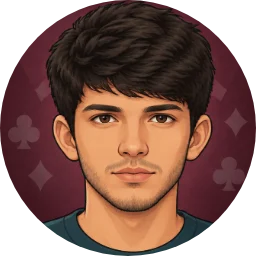
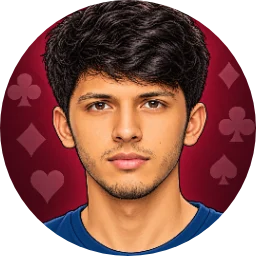
Escaleras de mayor a menor en pantalla (A K Q … 3) y avatares nuevos: 1 y 2 reemplazados, 9 y 10 agregados
- La mesa muestra los consecutivos de A a 3; soltar a la izquierda engancha por arriba. 789 ordena igual.
- Avatares de avatares4/5 (1 y 2) y avatares3 (9 y 10): sin aro dorado y con fondo vino tinto. AVATAR_COUNT = 10;
  el selector va en 2 filas de 5.
- Prueba de la sala con 1 bot: el bot puede plantarse de entrada (las reglas nuevas lo hacen más fácil).

diff --git a/client/src/table.js b/client/src/table.js
@@ -320,8 +320,9 @@ function dropOnMeld(card, target, x) {
     const onTwo = isWild(meldCardsOf(entry.meld)[target.idx] ?? {});
     if (!amPlanted() && onTwo && stealTwo(entry.meld, target.idx, card))
       return toast("Los 2 se roban al EMPEZAR tu turno, antes de tomar el descarte o hacer push. Inténtalo en tu próximo turno");
-    const r = target.meldEl.getBoundingClientRect();     // lado izquierdo del plante → inicio; derecho → final
-    stageHooks(entry, [card], x < r.left + r.width / 2 ? "low" : "high");
+    // Los consecutivos se ven de mayor a menor (A K Q … 3): lado izquierdo → el extremo alto; derecho → el bajo.
+    const r = target.meldEl.getBoundingClientRect();
+    stageHooks(entry, [card], x < r.left + r.width / 2 ? "high" : "low");
   } else if (cur.canTake) {
     if (amPlanted()) return toast("Primero toma una carta (el descarte o push). Después podrás enganchar");
     stealWith(entry, target.idx, card);
@@ -566,12 +567,14 @@ export function renderTable(app, { view, room, rerender }) {
   const stagedMelds = ui.stage.groups.map((g, gi) =>
     h("div", { class: "meld staged-meld tappable", "data-stage": gi, title: "Sin confirmar: toca para devolverlo a tu mano", onclick: () => onStagedClick(gi) },
       g.cards.map((c, i) => cardEl(c, "staged-card " + (isWild(c) ? "wild" : ""), i))));
+  // Los consecutivos se muestran de mayor a menor (A K Q … 3); data-idx sigue siendo la posición en m.meld (robo de 2).
   const tableMelds = shownMelds.map((m) => {
-    const cards = m.meld.kind === "set" ? m.meld.cards : m.meld.slots.map((s) => s.card);
+    const cards = meldCardsOf(m.meld);
+    const order = m.meld.kind === "run" ? cards.map((_, i) => cards.length - 1 - i) : cards.map((_, i) => i);
     const original = view.melds.find((x) => x.id === m.id);
     return h("div", { class: "meld" + (canMeldAct ? " tappable" : ""), "data-meld": m.id, onclick: (e) => onMeldClick(e, original) },
-      cards.map((c, i) => cardEl(c, (stagedHookIds.has(c.id) ? "staged-card " : liveHookIds.has(c.id) ? `live-card ${ui.prevLive.has(c.id) ? "" : "live-new "}` : recent.has(c.id) ? "recent " : "") +
-        (isWild(c) ? "wild " : ""), i)));
+      order.map((i) => { const c = cards[i]; return cardEl(c, (stagedHookIds.has(c.id) ? "staged-card " : liveHookIds.has(c.id) ? `live-card ${ui.prevLive.has(c.id) ? "" : "live-new "}` : recent.has(c.id) ? "recent " : "") +
+        (isWild(c) ? "wild " : ""), i); }));
   });
   for (const [id, c] of ui.clearing) {
     const ph = h("div", { class: "meld clearing", "data-clearing": id }, c.cards.map((card) => cardEl(card, "ph-hidden")));
@@ -785,7 +788,7 @@ function goalInline(view, mePlayer) {
       samples = g.size === 3 ? [mini("7", "♠"), mini("7", "♥"), mini("7", "♦")] : [mini("7", "♠"), mini("7", "♥"), mini("7", "♦"), mini("7", "♣")];
       label = g.size === 3 ? (g.count > 1 ? "tríos" : "trío") : g.count > 1 ? "cuartetos" : "cuarteto";
     } else {
-      samples = [mini("4", "♣"), mini("5", "♣"), mini("6", "♣"), h("span", { class: "mini-dots" }, "…")];
+      samples = [mini("6", "♣"), mini("5", "♣"), mini("4", "♣"), h("span", { class: "mini-dots" }, "…")];
       label = `consecutivo${g.count > 1 ? "s" : ""} de ${g.size}`;
     }
     return h("div", { class: "req-pill" },
@@ -806,7 +809,7 @@ function infoButton() {
     h("div", { class: "info-pop" },
       row("Trío:", "3 cartas del mismo número, de cualquier palo."),
       row("Cuarteto:", "4 cartas del mismo número, de cualquier palo."),
-      row("Consecutivo:", "cartas seguidas del mismo palo (ej. 4♣ 5♣ 6♣ 7♣ 8♣). Orden 3…K, A."),
+      row("Consecutivo:", "cartas seguidas del mismo palo (ej. 8♣ 7♣ 6♣ 5♣ 4♣). Orden A, K, Q … 3."),
       row("Mínimo:", "los grupos pueden ser más grandes de lo que se pide."),
       row("El 2:", "es comodín y reemplaza cualquier carta.")));
 }

diff --git a/client/test/grouping.test.js b/client/test/grouping.test.js
@@ -16,16 +16,16 @@ test("777: el 2 es solo comodín (no se agrupa) y las sueltas van al final", () 
   assert.deepEqual(show(groupSets(cs("2♠", "2♥", "2♦", "9♣"))), ["2♠ 2♥ 2♦ 9♣"]);
 });
 test("789: escalera simple y sueltas", () => {
-  assert.deepEqual(show(groupRuns(cs("7♥", "5♥", "6♥", "9♠", "K♦"))), ["5♥ 6♥ 7♥", "9♠ K♦"]);
+  assert.deepEqual(show(groupRuns(cs("7♥", "5♥", "6♥", "9♠", "K♦"))), ["7♥ 6♥ 5♥", "9♠ K♦"]);
 });
 test("789: un 6♥ repetido no rompe ni duplica la escalera", () => {
   const g = show(groupRuns(cs("5♥", "6♥", "6♥", "7♥")));
-  assert.deepEqual(g, ["5♥ 6♥ 7♥", "6♥"]);
+  assert.deepEqual(g, ["7♥ 6♥ 5♥", "6♥"]);
 });
-test("789: el orden es 3→K,A; el As va después de la K y el 2 no entra en las escaleras", () => {
-  assert.deepEqual(show(groupRuns(cs("Q♠", "K♠", "A♠"))), ["Q♠ K♠ A♠"]);           // Q-K-A
-  assert.deepEqual(show(groupRuns(cs("A♠", "2♠", "3♠", "4♠"))), ["3♠ 4♠", "2♠ A♠"]); // no hay A-2-3
-  assert.deepEqual(show(groupRuns(cs("3♣", "4♣", "A♣", "2♦"))), ["3♣ 4♣", "2♦ A♣"]);
+test("789: el orden es A,K,Q…3; el As va junto a la K y el 2 no entra en las escaleras", () => {
+  assert.deepEqual(show(groupRuns(cs("Q♠", "K♠", "A♠"))), ["A♠ K♠ Q♠"]);           // A-K-Q
+  assert.deepEqual(show(groupRuns(cs("A♠", "2♠", "3♠", "4♠"))), ["4♠ 3♠", "2♠ A♠"]); // no hay 3-2-A
+  assert.deepEqual(show(groupRuns(cs("3♣", "4♣", "A♣", "2♦"))), ["4♣ 3♣", "2♦ A♣"]);
 });
 test("no se pierde ni se duplica ninguna carta", () => {
   const hand = cs("5♠", "5♠", "5♥", "6♠", "6♠", "7♠", "2♥", "K♦", "A♦", "A♦", "J♣");

diff --git a/client/src/menus.js b/client/src/menus.js
@@ -201,7 +201,7 @@ export function rulesModal({ onClose }) {
         "4: cuatro tríos", "5: un cuarteto y un consecutivo de 8",
         "Es lo mínimo: un grupo puede ser más grande (un cuarteto en lugar de un trío) y puedes bajar grupos de más."),
       sec("Combinaciones", "Trío / cuarteto: mismo número, de cualquier palo. Puede tener más de 4 cartas.",
-        "Consecutivo: seguidas y del mismo palo. Orden 3, 4 … 10, J, Q, K, A (el As solo va después de la K).",
+        "Consecutivo: seguidas y del mismo palo. Orden A, K, Q, J, 10 … 3 (el As solo va junto a la K: no hay K-A-3).",
         "El 2 es solo comodín: vale lo que pida el lugar donde lo pones. Cada grupo necesita al menos una carta que no sea 2."),
       sec("Tu turno", "Toma el descarte, o haz «push»: la carta del mazo y el descarte van a la mano del siguiente y tú robas una.",
         "Si ya te plantaste puedes bajar combinaciones y enganchar en plantes de la mesa (en el turno en que te plantas no se engancha).",
@@ -331,7 +331,7 @@ export function gameMenuModal({ onClose, onSettings, onRules, onHelp, onExit, in
       h("button", { class: "m-btn red wide", onclick: onExit }, inGame ? "Salir al menú de inicio" : "Volver al menú de inicio")));
 }
 
-// Elegir avatar: los 8 disponibles; el tuyo marcado.
+// Elegir avatar: los 10 disponibles (2 filas de 5); el tuyo marcado.
 export function avatarModal({ account, busy, onPickAvatar, onClose }) {
   return modal("Tu avatar", onClose,
     h("div", { class: "m-avatars" },

diff --git a/server/test/accounts.test.js b/server/test/accounts.test.js
@@ -63,12 +63,12 @@ describe("Cuentas: API y salas", () => {
     assert.equal(c.account.chips, 300);                                  // siempre 300, nunca lo que se pida
   });
 
-  it("API: avatar al crear la cuenta y cambiarlo (solo uno de los 8)", async () => {
+  it("API: avatar al crear la cuenta y cambiarlo (solo uno de los 10)", async () => {
     const r = await api("/account", { body: { name: "Ana", avatar: 99 } });
-    assert.ok(r.account.avatar >= 1 && r.account.avatar <= 8);
+    assert.ok(r.account.avatar >= 1 && r.account.avatar <= 10);
     const ok = await api("/account/avatar", { token: r.token, body: { avatar: 4 } });
     assert.equal(ok.account.avatar, 4);
-    assert.equal((await api("/account/avatar", { token: r.token, body: { avatar: 9 } })).status, 400);
+    assert.equal((await api("/account/avatar", { token: r.token, body: { avatar: 11 } })).status, 400);
     assert.equal((await api("/account/avatar", { body: { avatar: 2 } })).status, 401);
     assert.equal((await api("/account", { token: r.token })).account.avatar, 4);
   });

diff --git a/client/src/grouping.js b/client/src/grouping.js
@@ -23,7 +23,7 @@ export function groupSets(cards) {
   return finish([...groups, ...cards.filter(isWild).map((c) => [c])]);
 }
 
-// 789: seguidas del mismo palo. El orden es 3,4…K,A (el As solo va después de la K).
+// 789: seguidas del mismo palo, de mayor a menor: A,K,Q…3 (el As solo va junto a la K).
 export function groupRuns(cards) {
   const bySuit = {};
   cards.filter((c) => !isWild(c)).forEach((c) => (bySuit[c.suit] ??= []).push(c));
@@ -45,9 +45,9 @@ export function groupRuns(cards) {
         else { if (run.length) runs.push(run); run = [c]; }
       }
       if (run.length) runs.push(run);
-      groups.push(...runs);
+      groups.push(...runs.map((r) => r.reverse()));
     }
   }
-  groups.sort((a, b) => b.length - a.length || SUITS.indexOf(a[0].suit) - SUITS.indexOf(b[0].suit) || VAL(a[0].rank) - VAL(b[0].rank));
+  groups.sort((a, b) => b.length - a.length || SUITS.indexOf(a[0].suit) - SUITS.indexOf(b[0].suit) || VAL(b[0].rank) - VAL(a[0].rank));
   return finish([...groups, ...cards.filter(isWild).map((c) => [c])]);
 }

diff --git a/test/avatars.test.js b/test/avatars.test.js
@@ -3,12 +3,12 @@ import assert from 'node:assert/strict';
 import { AVATAR_COUNT, isAvatar, randomAvatar, avatarFor } from '../src/logic/avatars.js';
 import { Match } from '../src/logic/match.js';
 
-test('avatares: 8 disponibles; al azar siempre uno válido; fijo por id', () => {
-  assert.equal(AVATAR_COUNT, 8);
-  assert.deepEqual([0, 1, 8, 9, 2.5, '3'].map(isAvatar), [false, true, true, false, false, false]);
+test('avatares: 10 disponibles; al azar siempre uno válido; fijo por id', () => {
+  assert.equal(AVATAR_COUNT, 10);
+  assert.deepEqual([0, 1, 10, 11, 2.5, '3'].map(isAvatar), [false, true, true, false, false, false]);
   for (let i = 0; i < 50; i++) assert.ok(isAvatar(randomAvatar()));
   assert.equal(randomAvatar(() => 0), 1);
-  assert.equal(randomAvatar(() => 0.999), 8);
+  assert.equal(randomAvatar(() => 0.999), 10);
   assert.equal(avatarFor('abc'), avatarFor('abc'));
   assert.ok(isAvatar(avatarFor('xyz')));
 });

diff --git a/server/test/store.test.js b/server/test/store.test.js
@@ -107,9 +107,9 @@ for (const [label, make] of Object.entries(makers)) {
       assert.deepEqual(Object.keys(pub).sort(), ["avatar", "chips", "claim", "into", "level", "name", "needed", "xp"]);
     });
 
-    it("avatar: cada cuenta nueva trae uno al azar (1 a 8) y se puede cambiar solo a uno que exista", async () => {
+    it("avatar: cada cuenta nueva trae uno al azar (1 a 10) y se puede cambiar solo a uno que exista", async () => {
       const { account: a } = await s.create("Ana");
-      assert.ok(a.avatar >= 1 && a.avatar <= 8);
+      assert.ok(a.avatar >= 1 && a.avatar <= 10);
       assert.equal((await s.setAvatar(a.id, 7)).avatar, 7);
       assert.equal((await s.setAvatar(a.id, 99)).avatar, 7);           // no existe: no cambia
       assert.equal((await s.setAvatar(a.id, "3")).avatar, 7);

diff --git a/client/src/menus.css b/client/src/menus.css
@@ -50,7 +50,7 @@ body:has(#app.menu){ padding:6px; align-items:stretch; }
 .m-rivals{ display:flex; justify-content:center; gap:22px; margin-top:6px; }
 .m-rival{ display:flex; flex-direction:column; align-items:center; gap:6px; color:var(--ivory); font-weight:700; }
 .m-rival .m-avatar.with-img{ width:72px; height:72px; }
-.m-avatars{ display:grid; grid-template-columns:repeat(4, 1fr); gap:14px; padding:4px; }
+.m-avatars{ display:grid; grid-template-columns:repeat(5, 1fr); gap:14px; padding:4px; }
 .m-avatar-pick{ width:clamp(64px, 11vw, 104px); aspect-ratio:1; padding:0; border:0; border-radius:50%; background:none; cursor:pointer;
   box-shadow:0 4px 10px rgba(0,0,0,.45); transition:transform .12s ease, box-shadow .12s ease; }
 .m-avatar-pick:hover{ transform:scale(1.06); }

diff --git a/server/test/PushGinRoom.test.js b/server/test/PushGinRoom.test.js
@@ -361,7 +361,7 @@ describe("PushGinRoom", () => {
     await until(() => room.game.currentPlayer === a.sessionId);   // el bot jugó y le devolvió el turno a Ana
     assert.equal(room.game.currentPlayer, a.sessionId);
     await until(() => a.view.current === a.sessionId);  // la vista de Ana ya llegó
-    assert.equal(a.view.players[2].cards, 10);
+    assert.equal(a.view.players[2].cards, room.game.hands.bot1.length);   // puede haberse plantado: lo que tiene de verdad
   });
 
   it("juego privado: el anfitrión puede pedir 2 bots para ser 4; nunca más de 4 en la mesa", async () => {

diff --git a/src/logic/avatars.js b/src/logic/avatars.js
@@ -1,6 +1,6 @@
-// Avatares de los jugadores: imágenes client/public/avatars/avatar-1.webp … avatar-8.webp (retratos con fondo
+// Avatares de los jugadores: imágenes client/public/avatars/avatar-1.webp … avatar-10.webp (retratos con fondo
 // vino tinto, sin aro: el aro dorado de la mesa es el reloj del turno).
-export const AVATAR_COUNT = 8;
+export const AVATAR_COUNT = 10;
 export const isAvatar = (n) => Number.isInteger(n) && n >= 1 && n <= AVATAR_COUNT;
 export const randomAvatar = (rng = Math.random) => 1 + Math.floor(rng() * AVATAR_COUNT);
 

diff --git a/server/src/accounts/api.js b/server/src/accounts/api.js
@@ -68,7 +68,7 @@ export function mountAccountRoutes(app) {
     res.json({ account: publicAccount(await (await initStore()).rename(acc.id, name)) });
   }));
 
-  // Cambiar tu avatar (uno de los 8 disponibles).
+  // Cambiar tu avatar (uno de los disponibles, AVATAR_COUNT).
   app.post("/api/account/avatar", safe(async (req, res) => {
     const acc = await auth(req, res); if (!acc) return;
     const avatar = req.body?.avatar;

diff --git a/CLAUDE.md b/CLAUDE.md
@@ -9,7 +9,8 @@ Juego de cartas multijugador (3 a 4 en la mesa; si faltan, completan bots) en el
   - `turn.js` jugada completa de un turno, validada de una vez (`resolveTurn`) · `plan.js` ayudas para agrupar cartas
   - `match.js` la PARTIDA (jugadores, 5 rondas, vistas privadas, temporizador). La usan la sala del servidor y la práctica
   - `bot.js` jugador automático (solo ve su propia vista; nombres y avatares de los bots) · `progress.js` XP, niveles y fichas
-  - `avatars.js` los 8 avatares (`client/public/avatars/avatar-N.webp`, recortados de `docs/referencias/avatares*.png`
+  - `avatars.js` los 10 avatares (`client/public/avatars/avatar-N.webp`, recortados de `docs/referencias/avatares*.png`:
+    1 y 2 de avatares4/5, 3–8 de avatares1/2, 9 y 10 de avatares3;
     por dentro del aro dorado y con el fondo verde pasado a vino tinto, para que no se pierdan en el fieltro)
 - `test/` — pruebas de la lógica (`npm test` en la raíz, `node --test`).
 - `server/` — servidor Colyseus 0.18 (`PushGinRoom`). Pruebas con mocha (`cd server && npm test`).
@@ -20,7 +21,8 @@ Juego de cartas multijugador (3 a 4 en la mesa; si faltan, completan bots) en el
 - 3 barajas, 10 cartas por jugador, 1 carta boca arriba en el descarte. 5 rondas:
   1) 3 tríos · 2) trío + consecutivo de 5 · 3) 2 consecutivos de 6 · 4) 4 tríos · 5) cuarteto + consecutivo de 8.
 - Orden A,K,Q,J,10…3: un consecutivo va de 3 a A (valores 3…14, `RUN_LOW`/`RUN_HIGH`); el As solo va después de la
-  K, sin vuelta (no hay A-3 ni K-A-3). Consecutivos: mismo palo, 12 cartas como máximo.
+  K, sin vuelta (no hay A-3 ni K-A-3). Consecutivos: mismo palo, 12 cartas como máximo. En pantalla se ven de mayor a
+  menor (A K Q … 3): en la mesa, soltar a la izquierda engancha arriba; 789 los ordena igual.
 - **El 2 es SOLO comodín.** Vale el número del trío, o en un consecutivo el de la POSICIÓN donde se coloca (las cartas
   viajan con `ordered:true`, ascendente o descendente). No hay tríos de 2s; cualquier 2 de la mesa se puede robar.
 - Tríos/cuartetos: mismo número, **el palo no importa** y pueden tener más de 4 cartas (se enganchan sin límite).
@@ -126,7 +128,7 @@ Juego de cartas multijugador (3 a 4 en la mesa; si faltan, completan bots) en el
   atómica y entrega un token NUEVO. Canjes limitados por IP.
 - **XP y fichas los decide siempre el servidor:** premios de la partida, cuota (a todos o a nadie) y fichas gratis.
   Ninguna ruta acepta esos valores del cliente. La práctica da la mitad del XP solo si se juega en el servidor.
-- **Avatar:** cada cuenta nueva recibe uno al azar (1–8, columna `accounts.avatar`; cuentas viejas: `avatarFor(id)`).
+- **Avatar:** cada cuenta nueva recibe uno al azar (1–10, columna `accounts.avatar`; cuentas viejas: `avatarFor(id)`).
   Se cambia tocando el avatar en el menú de inicio (`POST /api/account/avatar`). Los jugadores lo llevan en la vista.
 - Cliente: `account.js` (API), `menus.js`/`menus.css`, `settings.js`, `sound.js`. Los menús ocupan toda la pantalla.
 - Menú de inicio (ref. `docs/referencias/barra superior.png` y `barra de monedas gratis/activa.png`): barra superior
